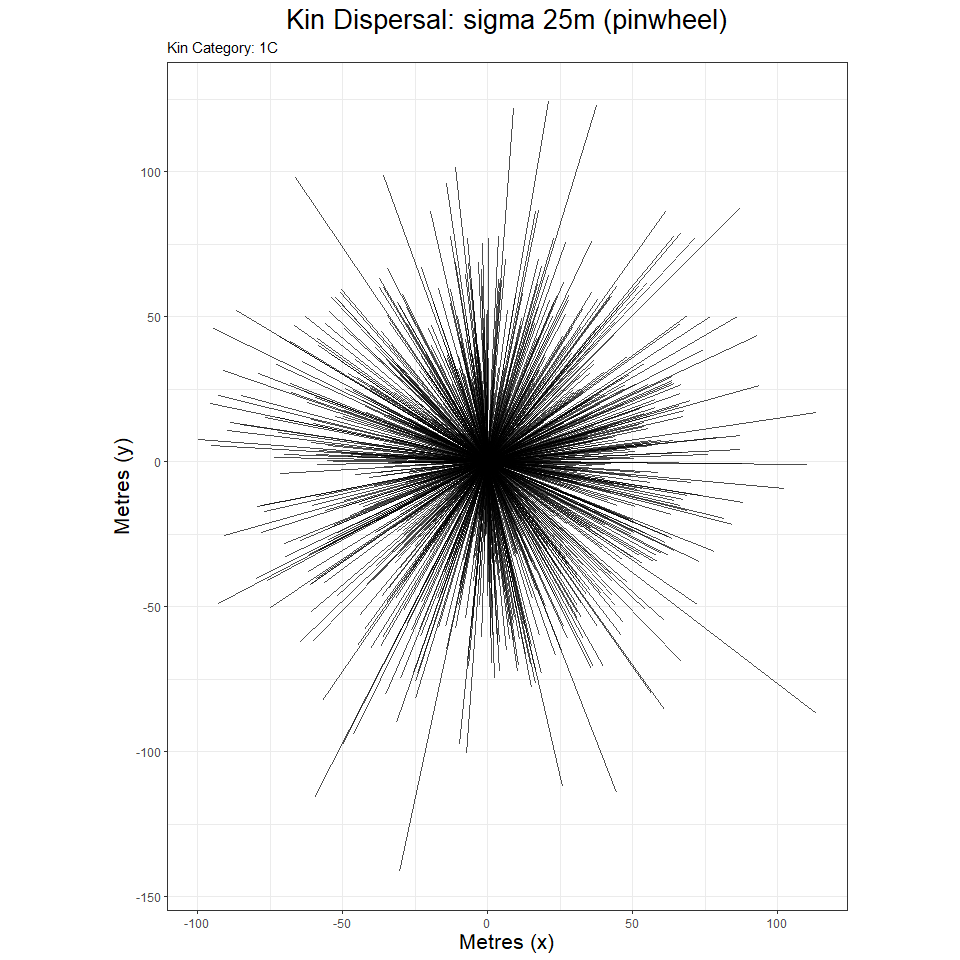
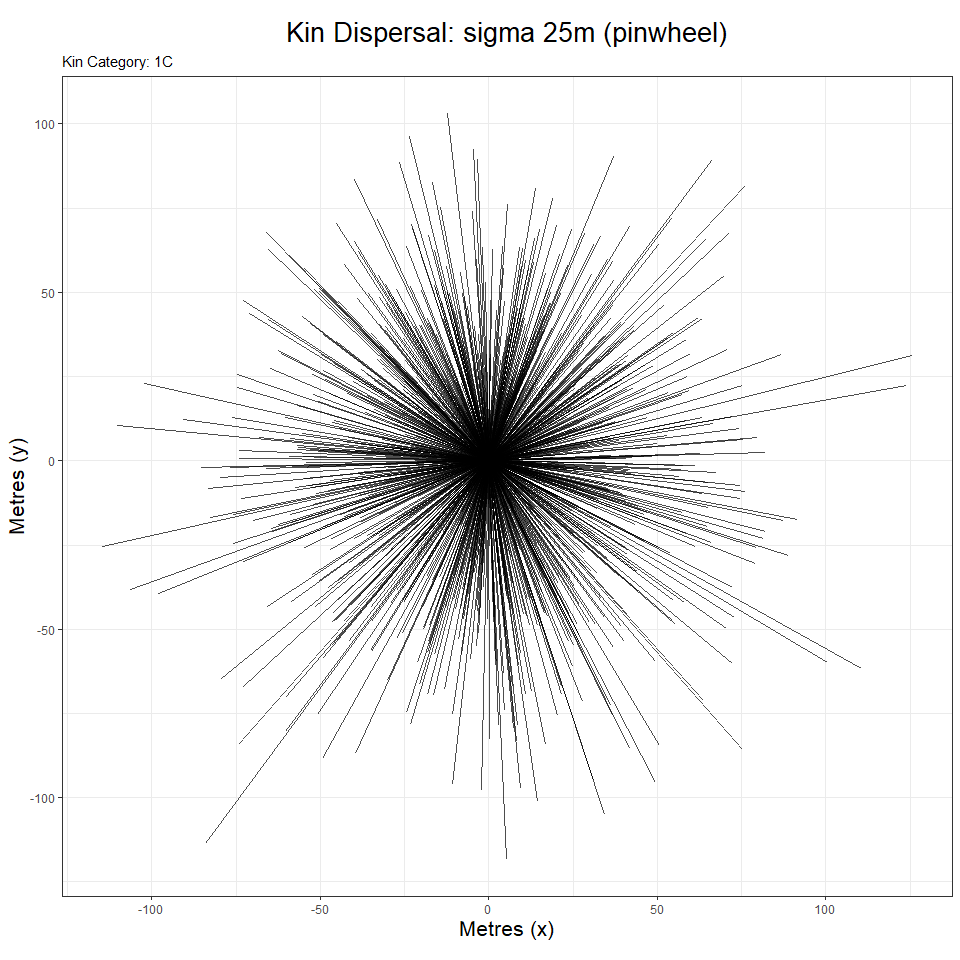
changed simulation method parameter input value from 'Gamma' to 'gamma'

diff --git a/README.md b/README.md
@@ -280,7 +280,7 @@ KinPairSimulation, which supplies a tibble (dataframe) of simulation
 results, as well as metadata capturing the simulation parameters.
 
 Three kernel types are supported for the next two simulations at
-present: `Gaussian`, `Laplace`, and `Gamma`. These are passed to the
+present: `Gaussian`, `Laplace`, and `gamma`. These are passed to the
 functions with the `method` parameter. If using gamma, also supply its
 shape parameter with the argument `shape`. Small values of `shape`
 correspond to an increasingly leptokurtic kernel - i.e. a strong central
@@ -313,13 +313,13 @@ simulate_kindist_simple(nsims = 5, sigma = 100, method = "Gaussian", kinship = "
 #> 
 #> tab
 #> # A tibble: 5 x 8
-#>   id1   id2   kinship distance    x1    y1     x2    y2
-#>   <chr> <chr> <chr>      <dbl> <dbl> <dbl>  <dbl> <dbl>
-#> 1 1a    1b    PO         162.   7.31  53.0 -139.  123. 
-#> 2 2a    2b    PO         120.  63.4   42.3  168.  100. 
-#> 3 3a    3b    PO         117.  38.2   85.3  -77.9  94.7
-#> 4 4a    4b    PO          73.1  3.39  78.6   38.2  14.3
-#> 5 5a    5b    PO         111.  98.1   29.0  -13.0  33.8
+#>   id1   id2   kinship distance    x1    y1    x2     y2
+#>   <chr> <chr> <chr>      <dbl> <dbl> <dbl> <dbl>  <dbl>
+#> 1 1a    1b    PO         186.  53.2   27.3 -45.7 -130. 
+#> 2 2a    2b    PO         133.  17.1   42.5 -56.1  154. 
+#> 3 3a    3b    PO         141.   2.12  36.9 126.   -30.2
+#> 4 4a    4b    PO          96.5 57.5   40.7 -36.1   17.6
+#> 5 5a    5b    PO          86.3 98.9   97.3  18.5  129. 
 #> -----------------------------------
 ```
 
@@ -365,13 +365,13 @@ simulate_kindist_composite(nsims = 5, initsigma = 50, breedsigma = 30, gravsigma
 #> 
 #> tab
 #> # A tibble: 5 x 8
-#>   id1   id2   kinship distance    x1    y1     x2     y2
-#>   <chr> <chr> <chr>      <dbl> <dbl> <dbl>  <dbl>  <dbl>
-#> 1 1a    1b    H1C         339.  82.4 -34.6 -190.  -237. 
-#> 2 2a    2b    H1C         131. 170.  131.    87.6   29.5
-#> 3 3a    3b    H1C         180.  17.7 126.   168.   226. 
-#> 4 4a    4b    H1C         149. 190.   69.6  206.   218. 
-#> 5 5a    5b    H1C         141. 329.  193.   196.   146. 
+#>   id1   id2   kinship distance     x1    y1      x2    y2
+#>   <chr> <chr> <chr>      <dbl>  <dbl> <dbl>   <dbl> <dbl>
+#> 1 1a    1b    H1C        141.    37.7  62.9 -102.    81.6
+#> 2 2a    2b    H1C        303.   -34.6 -91.9    6.13 208. 
+#> 3 3a    3b    H1C        147.   107.   13.6  244.   -40.5
+#> 4 4a    4b    H1C         46.1  104.  280.    88.4  237. 
+#> 5 5a    5b    H1C        240.  -164.   25.8   39.4  152. 
 #> -----------------------------------
 ```
 
@@ -413,18 +413,18 @@ sample_kindist(compsim, upper = 1000, lower = 200, spacing = 50, n = 25)
 #> 
 #> tab
 #> # A tibble: 25 x 8
-#>    id1    id2    kinship distance     x1     y1     x2     y2
-#>    <chr>  <chr>  <chr>      <dbl>  <dbl>  <dbl>  <dbl>  <dbl>
-#>  1 86771a 86771b H2C          425   96.5  451.   255.    33.8
-#>  2 6328a  6328b  H2C          325 -239.    21.8   55.4  199. 
-#>  3 49014a 49014b H2C          475  197.   131.   123.  -318. 
-#>  4 50410a 50410b H2C          375  -38.5  311.   -11.1  -44.0
-#>  5 89859a 89859b H2C          275 -107.   164.  -137.  -101. 
-#>  6 12566a 12566b H2C          525   54.5 -168.  -397.   127. 
-#>  7 73169a 73169b H2C          425 -192.   -68.2  101.   211. 
-#>  8 54312a 54312b H2C          275  204.  -119.   -41.0   26.9
-#>  9 63593a 63593b H2C          225  -32.3  -35.1  132.   116. 
-#> 10 49204a 49204b H2C          225  -60.2  377.    45.5  195. 
+#>    id1    id2    kinship distance     x1      y1      x2       y2
+#>    <chr>  <chr>  <chr>      <dbl>  <dbl>   <dbl>   <dbl>    <dbl>
+#>  1 14121a 14121b H2C          625  516.  -186.    -93.6  -344.   
+#>  2 75260a 75260b H2C          225   62.7  -41.2    -4.43  194.   
+#>  3 37620a 37620b H2C          475 -256.    -6.25  167.    253.   
+#>  4 73197a 73197b H2C          225   85.5   97.2   296.     10.7  
+#>  5 2453a  2453b  H2C          225 -101.    -2.88  -18.3  -196.   
+#>  6 96864a 96864b H2C          425  323.   426.    207.     -0.130
+#>  7 62688a 62688b H2C          625  248.   252.   -298.    -46.4  
+#>  8 4414a  4414b  H2C          425  364.     3.05   -5.63 -161.   
+#>  9 46140a 46140b H2C          225 -166.    83.0    30.1   -11.6  
+#> 10 45469a 45469b H2C          475 -185.   -42.4   103.    338.   
 #> # ... with 15 more rows
 #> -----------------------------------
 ```
@@ -519,13 +519,13 @@ of three draws from the PO distribution, and thus would take
 ``` r
 paroff <- simulate_kindist_simple(nsims = 1000, sigma = 75, kinship = "PO")
 axials(paroff)
-#> [1] 76.57612
+#> [1] 75.43653
 ```
 
 ``` r
 fullsibs <- simulate_kindist_composite(nsims = 10000, ovisigma = 25, kinship = "FS")
 axials(fullsibs, composite = 2)
-#> [1] 24.89326
+#> [1] 25.1819
 ```
 
 Various auxillary functions exist to further manipulate axial distances
@@ -608,7 +608,7 @@ fullcous <- simulate_kindist_composite(nsims = 75, initsigma = init, breedsigma 
 
 axpermute_standard(fullcous, fullsibs)
 #>     2.5%     mean    97.5% 
-#> 77.09162 85.18996 92.94924
+#> 81.10004 90.48429 99.22326
 ```
 
 As we can see, the C.I. neatly brackets the actual axial value, though
@@ -637,18 +637,18 @@ cousins
 #> 
 #> tab
 #> # A tibble: 150 x 9
-#>    id1   id2   kinship distance     x1      y1     x2      y2 lifestage
-#>    <chr> <chr> <chr>      <dbl>  <dbl>   <dbl>  <dbl>   <dbl> <chr>    
-#>  1 1a    1b    UN         178.    1.17 -166.   -37.1     8.18 larva    
-#>  2 2a    2b    UN         270.   39.7  -126.    -2.80  141.   larva    
-#>  3 3a    3b    UN          45.4  63.5    41.0   33.3     7.01 larva    
-#>  4 4a    4b    UN         132.  102.    -33.6   99.6    98.6  larva    
-#>  5 5a    5b    UN         202.   84.8  -220.   -24.2   -50.3  larva    
-#>  6 6a    6b    UN         180.   96.6    77.4  223.    -51.0  larva    
-#>  7 7a    7b    UN         212.  -28.6    18.4   90.6   193.   larva    
-#>  8 8a    8b    UN         106.   89.1    -1.34 114.   -105.   larva    
-#>  9 9a    9b    UN         198.  -40.1   135.   130.     33.2  larva    
-#> 10 10a   10b   UN         236.   70.1   152.    62.9   -84.0  larva    
+#>    id1   id2   kinship distance     x1    y1     x2    y2 lifestage
+#>    <chr> <chr> <chr>      <dbl>  <dbl> <dbl>  <dbl> <dbl> <chr>    
+#>  1 1a    1b    UN         162.  155.    20.9   68.5 158.  larva    
+#>  2 2a    2b    UN         151.  -55.2  -90.4   73.9 -11.2 larva    
+#>  3 3a    3b    UN         166.  275.   178.   121.  118.  larva    
+#>  4 4a    4b    UN         238.   48.2  -66.7  233.   83.9 larva    
+#>  5 5a    5b    UN          95.5 134.   108.    52.5  58.0 larva    
+#>  6 6a    6b    UN         170.  142.    48.0  106.  214.  larva    
+#>  7 7a    7b    UN          92.3   3.58 -16.0   80.0 -67.9 larva    
+#>  8 8a    8b    UN         112.  -43.7   71.2 -108.  -21.0 larva    
+#>  9 9a    9b    UN         223.   38.2  -61.3  157.  127.  larva    
+#> 10 10a   10b   UN          66.9  25.9   23.8   59.9  81.5 larva    
 #> # ... with 140 more rows
 #> -------------------------------
 ```
@@ -664,7 +664,7 @@ missing category data:
 # the cousin mixture in phase)
 axpermute_standard(avect = cousins, acat = "1C", amix = TRUE, amixcat = "H1C", bvect = fullsibs, bcomp = TRUE, bcompvect = halfsibs)
 #>      2.5%      mean     97.5% 
-#>  77.72940  89.59462 100.66648
+#>  77.84682  89.54098 100.22565
 ```
 
 This estimate is a lot more convoluted, and not as ‘spot on’- but the
